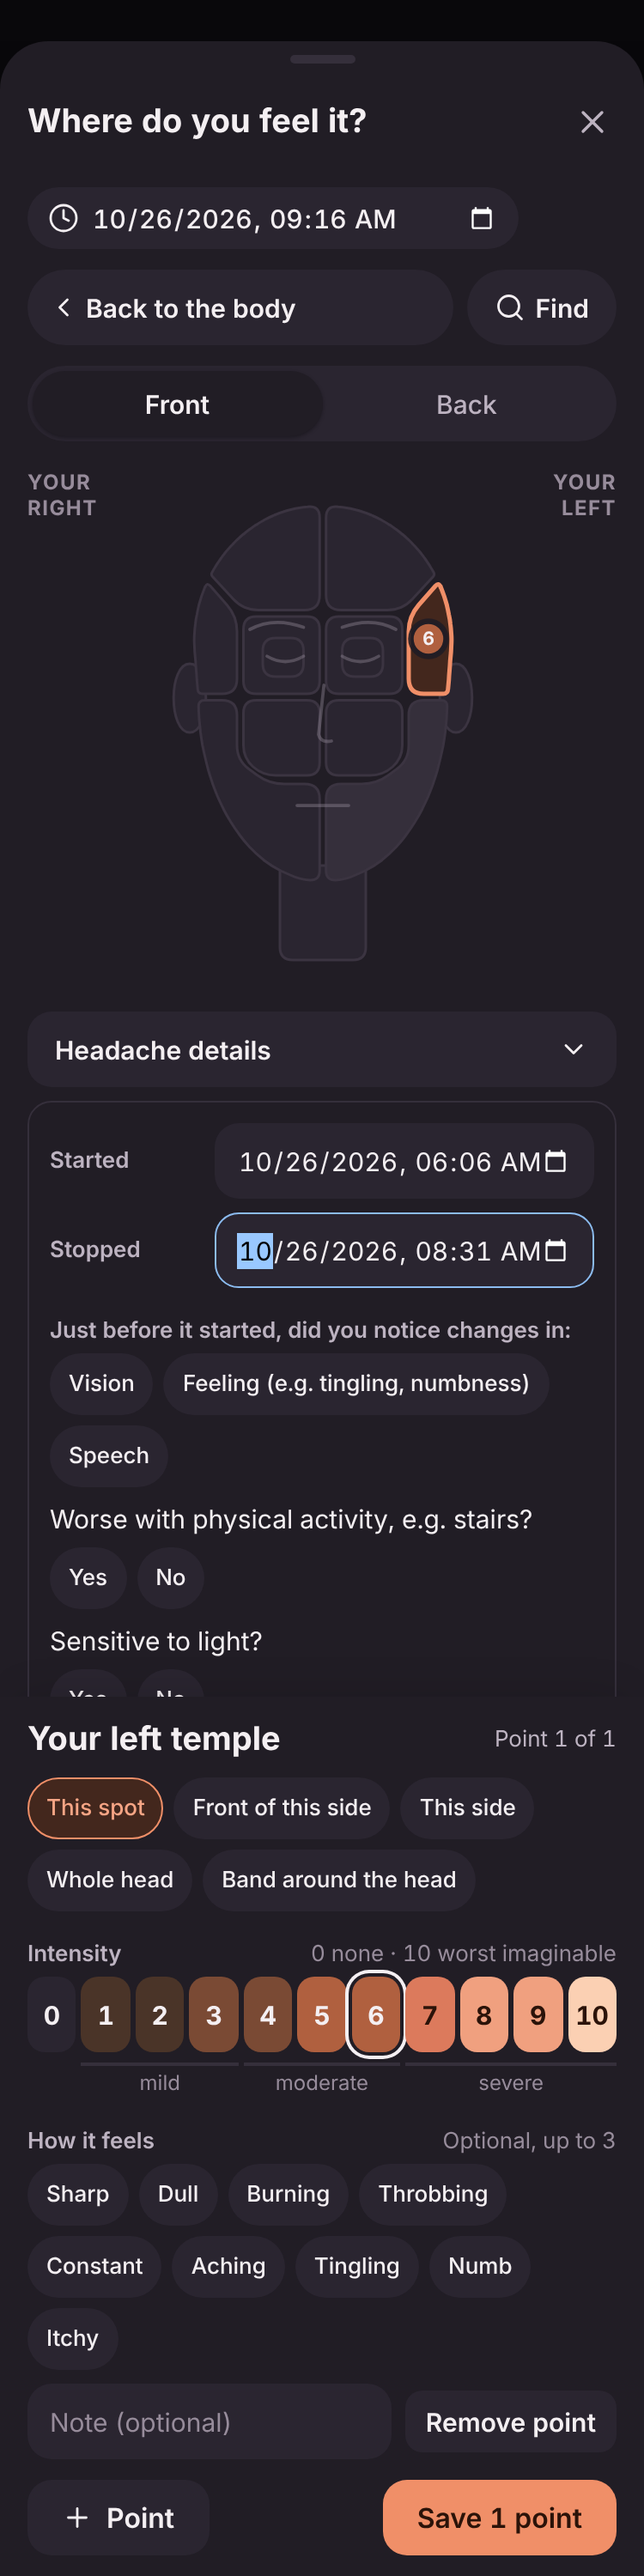
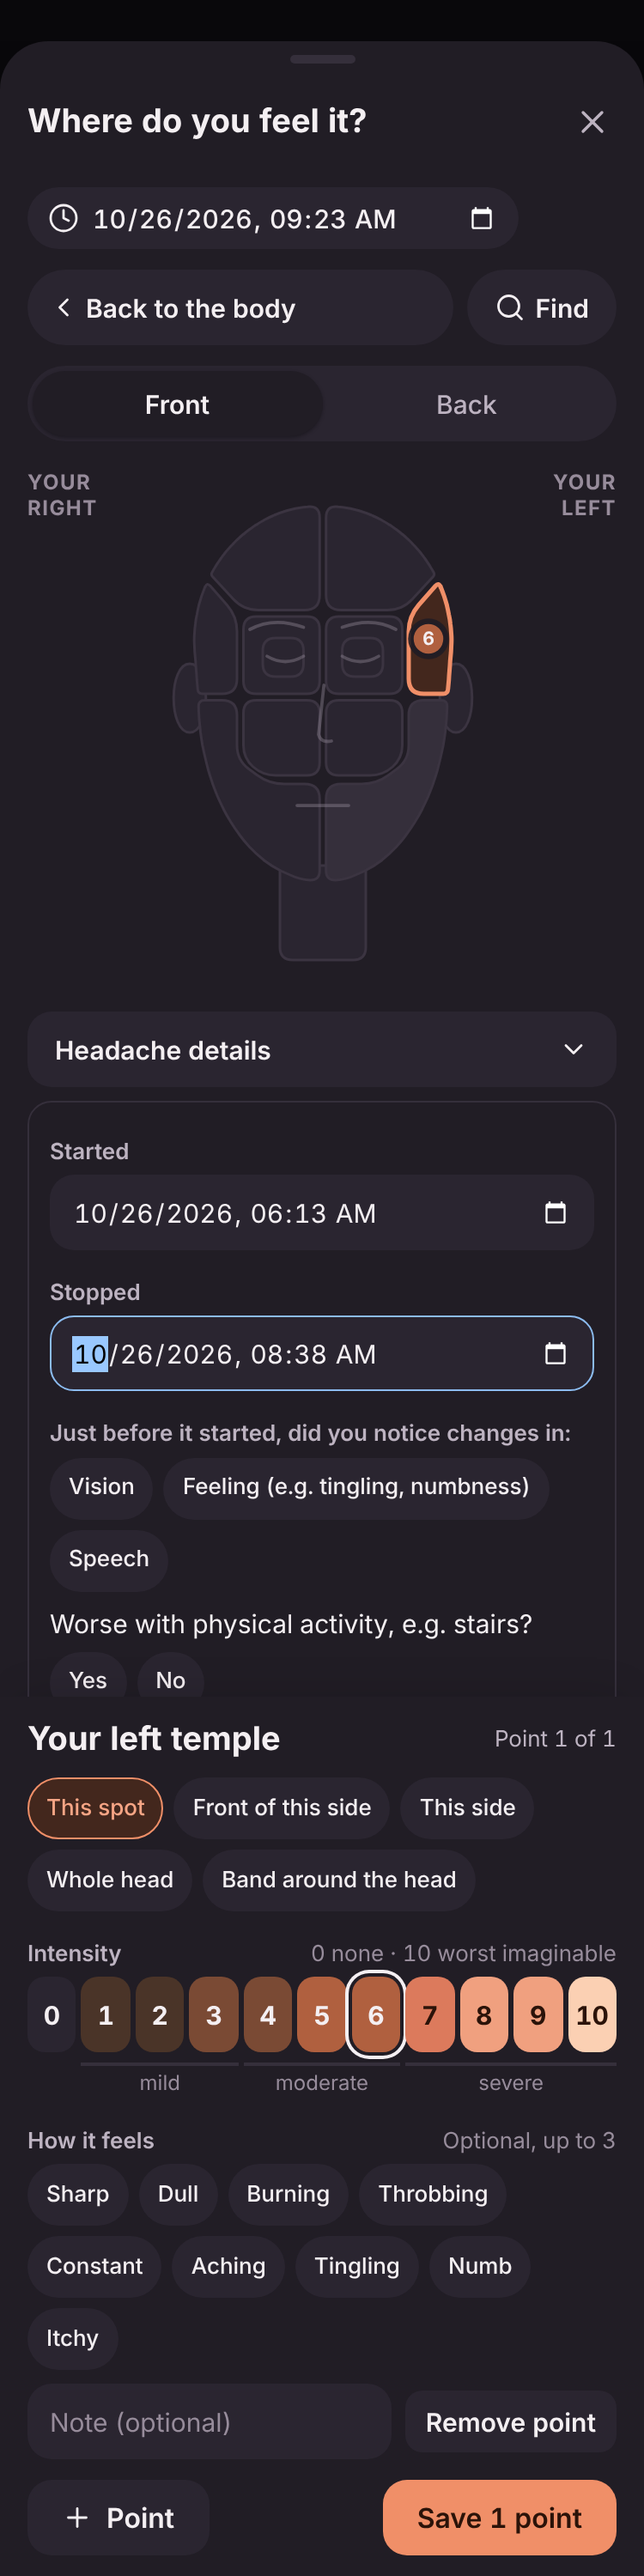
fix(headache): stack the start and stop fields, log #106 decisions
Claude-Session: https://claude.ai/code/session_01B2WNjApwN3poUWHaVsoPmT

Changed region(s): [[0.0613, 0.434, 0.8893, 0.682], [0.7053, 0.62, 0.7667, 0.651], [0.4907, 0.062, 0.5213, 0.093]]

diff --git a/src/lib/records/headache.ts b/src/lib/records/headache.ts
@@ -18,7 +18,7 @@ export const MAX_TRIGGER = 200;
  * Optional details on a pain entry (entry level, not per point). Everything is optional; `{}` only says "this is a
  * headache" (the person ticked it without a point on the head).
  *
- * `started` and `stopped` are full local date-times at minute precision ("2026-10-18T22:40:00+02:00"; entries made before 1.1 hold whole hours, which stay valid), so a headache
+ * `started` and `stopped` are full local date-times at minute precision ("2026-10-18T22:40:00+02:00"; entries made before 1.0.1 hold whole hours, which stay valid), so a headache
  * that ended the next day needs no extra field and the offset travels with the value like every `at`. An empty
  * `stopped` means "still going" (Today asks later); `lastSeen` is the time the person last said "Still there" on
  * Today. `stillGoing` is legacy: old entries still parse, nothing writes it any more, and it reads like no `stopped`.

diff --git a/src/lib/components/BodyMapSheet.svelte b/src/lib/components/BodyMapSheet.svelte
@@ -1137,12 +1137,11 @@
 	}
 	.when {
 		display: flex;
-		flex-wrap: wrap;
-		align-items: center;
-		gap: var(--sp-2);
+		flex-direction: column;
+		gap: 4px;
+		margin-top: var(--sp-2);
 	}
 	.when .label {
-		width: 5.5rem;
 		margin: 0;
 	}
 	.field {
@@ -1155,7 +1154,7 @@
 		font-size: var(--fs-callout);
 	}
 	.when .field {
-		flex: 1;
+		width: 100%;
 	}
 	.field.text {
 		width: 100%;

diff --git a/CLAUDE.md b/CLAUDE.md
@@ -134,7 +134,7 @@ These are the owner's standing preferences, learned over M2–M4. Follow them in
 - **GitHub incidents:** during GitHub Actions incidents, runs may sit queued for minutes (Prepare release once took 9 min). Check githubstatus.com. If a release's `published` event was missed, rebuild with Actions → Release → Run workflow (tag input). Slow Ubuntu mirrors kept running the e2e browser install into the 20-minute limit (#144, then often on 23 Oct), so the e2e job now runs in Microsoft's Playwright image with browsers built in (`feature/ci-browser-install`; replaces the "re-run rather than change CI" choice of #51). **When upgrading `@playwright/test`, bump the image tag in `.github/workflows/ci.yml` to the same version.** This session cannot reach githubstatus.com; ask the owner to check it.
 - **PR helpers:** when a PR is opened, start a Sonnet cloud session (`create_session`, model Sonnet, source = the PR branch) that subscribes to the PR and only fixes failing CI, messaging the main session when blocked; the main session unsubscribes. #53 was the first (2026-10-22).
 - **Local e2e in the cloud sandbox:** the pre-installed Chromium can be a newer build than `@playwright/test` expects; point Playwright at it with a local shim (never `playwright install`), and give parallel runs their own `E2E_PORT`.
-- **Sub-agents** work best in their own git worktree (`isolation: worktree`), with a precise brief (scope, decisions, tests, screenshots, the full local check) and an instruction not to push. The main session reviews the screenshots, merges develop, runs the full local check, pushes and opens the PR.
+- **Sub-agents** work best in their own git worktree (`isolation: worktree`), with a precise brief (scope, decisions, tests, screenshots, the full local check) and an instruction not to push. Let them commit on their own worktree branch; never tell them to check out a branch the main checkout holds (one did with `checkout -B`, which moved the main checkout's branch under it). The main session reviews the screenshots, merges develop, runs the full local check, pushes and opens the PR.
 - **Headache report wording is clinical:** it follows the doctor's form "Diagnostisk hovedpinedagbog". Language reviews must not change `rep.f.*`, `rep.row.*` or `rep.v.*` without the owner (2026-10-25).
 - **Merge conflicts in CLAUDE.md** are common, because every branch updates "Current status". Resolve them by combining both sides.
 - **Pi upgrades:** `sed` reports success even when it changes nothing. The upgrade block therefore checks that the tag changed and stops otherwise (#39, #43).
@@ -240,6 +240,8 @@ These are the owner's standing preferences, learned over M2–M4. Follow them in
 | 2026-10-25 | Danish review: first pass (Sonnet, 153 strings) and an independent second pass (Opus, 61 more, incl. grammar errors). Where they disagreed, built with the second pass's choice for the owner to confirm in the PR: "Generet af lys?/lyd?" in the Pain sheet (report keeps Lys-/Lydfølsomhed), "Pludselig trang", "Anden tå på din højre fod" in the app (report keeps "tå nr. 2"), "Styrke" for the 0–10 value, "profil, du passer" (not "pårørendeprofil"). Word list `docs/i18n/da-glossary.md`, change log `docs/i18n/da-review.md` | Owner |
 | 2026-10-25 | #101 merged. Headache report wording: the doctor's form uses clinical language that must be kept. Rows 4 and 13 go back to the earlier wording ("Forandringer lige før start", "syn / følelse / tale", "Navn / Mængde / Tid"); rows 10 and 11 keep "Lysfølsomhed" / "Lydfølsomhed" (checked in a preview: they fit both layouts). Rule: language reviews must not change the headache report's form wording (`rep.f.*`, `rep.row.*`, `rep.v.*`) without the owner | Owner |
 | 2026-10-25 | #102 merged (rows 4 and 13 back to the form's wording). M7 done. **1.0.0 released** (#103 into main, #104 back into develop): family release under the current name. Pi upgraded by the owner and the one-time `chmod -R go-rwx ~/mydaybook/data ~/mydaybook/backup` done; HA session informed | Owner |
+| 2026-10-26 | #106 headache times like every other entry: Started/Stopped are date-and-time fields to the minute (old whole-hour entries stay valid, no conversion); "Still there" saves the exact time; "It's gone" offers Now, 1 hour ago, 2 hours ago, Earlier…; the paper-form report layout rounds to the nearest hour (:30 rounds up, 23:30 and later shows 23:00 on its own day), Clean table shows the exact time; an empty Started stays empty (nothing guessed). Ships as fix release 1.0.1 before M8 (`feature/headache-times`) | Owner |
+| 2026-10-26 | M8 plan proposed (mockup `design/offline.html`, pushed on `feature/offline-plan`, not yet a PR): `feature/offline-unlock` → `feature/offline-outbox` (→ 1.1.0) → `feature/offline-photos` (→ 1.2.0); 8 open decisions waiting for the owner's review | Main session |
 | 2026-10-24 | Privacy mockup (`design/privacy.html`) approved with 6 decisions: the age line is both a pill and part of the checkbox ("I am 13 or older…"), both hashed; new setting `BACKUP_RETENTION_DAYS` (default 14) feeds the consent text, the Privacy page and the Delete texts; "Read how your data is handled" opens the Privacy page inside sign-up with Back, keeping what was typed (so `/privacy` works signed out); optional `OPERATOR_NAME` / `OPERATOR_CONTACT`, section hidden when empty; complaints name Datatilsynet as plain text; "Read the text you agreed to" shows the person's own version (old versions stay bundled, never edited). Why 13: Denmark's GDPR Art. 8 age; younger children need a parent, which the parked dependent profiles would cover | Owner |
 
 ## Backlog (owner requests to raise later)
@@ -258,7 +260,7 @@ Remind the owner of these when planning the next feature milestone; don't build 
 
 ## Current status
 
-_Last updated: 2026-10-25 (handover). Released and on the Pi: **1.0.0** (M7 done: GDPR templates, consent v2 + Privacy page, hardening, self-hosting guide, Danish review). No open PRs; only issue #82 (FHIR idea) is open. **Next session:** plan **M8 offline-first** (unlock offline, encrypted outbox for entries made offline, clear "not synced yet" state; sign-in, reminders and admin stay online; builds on the ciphertext cache in IndexedDB) with a short plan, open decisions and recommendations, and a mockup of the "not synced yet" states before any build. Versioning after 1.0.0: new features → 1.x.0, fixes → 1.0.x. Open: family feedback on the footprint sole (keep, or flip `SOLE_TOES_UP`); tell the HA session to remove the old :8444 redirect once everyone has moved; `.env.example` still has the owner's address as the example `PUBLIC_URL` (small fix, can ride on the next branch); optional word-for-word check of the headache report's 13 row labels against the paper form, then lock them with a test. Before any public release: rename (`brand.config.json`), a lawyer's look at the consent and privacy wording, storage quota (backlog)._
+_Last updated: 2026-10-26. Released and on the Pi: **1.0.0**. Open PR: `feature/headache-times` (#106, fix → 1.0.1). **M8 offline-first** plan and mockup sent to the owner (decisions log 2026-10-26; mockup on branch `feature/offline-plan`, `design/offline.html`); the owner reviews it later, nothing built yet. **Next session:** get the owner's answers on the 8 M8 decisions, log them, then brief `feature/offline-unlock`. Versioning after 1.0.0: new features → 1.x.0, fixes → 1.0.x. Open: family feedback on the footprint sole (keep, or flip `SOLE_TOES_UP`); tell the HA session to remove the old :8444 redirect once everyone has moved; `.env.example` still has the owner's address as the example `PUBLIC_URL` (small fix, can ride on the next branch); optional word-for-word check of the headache report's 13 row labels against the paper form, then lock them with a test. Before any public release: rename (`brand.config.json`), a lawyer's look at the consent and privacy wording, storage quota (backlog)._TOES_UP`); tell the HA session to remove the old :8444 redirect once everyone has moved; `.env.example` still has the owner's address as the example `PUBLIC_URL` (small fix, can ride on the next branch); optional word-for-word check of the headache report's 13 row labels against the paper form, then lock them with a test. Before any public release: rename (`brand.config.json`), a lawyer's look at the consent and privacy wording, storage quota (backlog)._
 
 
 

diff --git a/docs/ARCHITECTURE.md b/docs/ARCHITECTURE.md
@@ -333,7 +333,7 @@ All fields are optional and unknown keys are refused:
   "trigger": "skipped lunch" } }
 ```
 
-`started` and `stopped` are full local date-times at minute precision (like every `at`, offset kept; entries made before 1.1
+`started` and `stopped` are full local date-times at minute precision (like every `at`, offset kept; entries made before 1.0.1
 hold whole hours, which stay valid), so a stop on the next day needs no extra field; `stopped` is not before `started`. An empty `stopped` means the
 headache is still going; Today asks about it later (see below). `"lastSeen"` (same format, not before `started`) is
 the time of the last "Still there" tap on Today. `"stillGoing": true` is **legacy**: old entries still parse and read the
